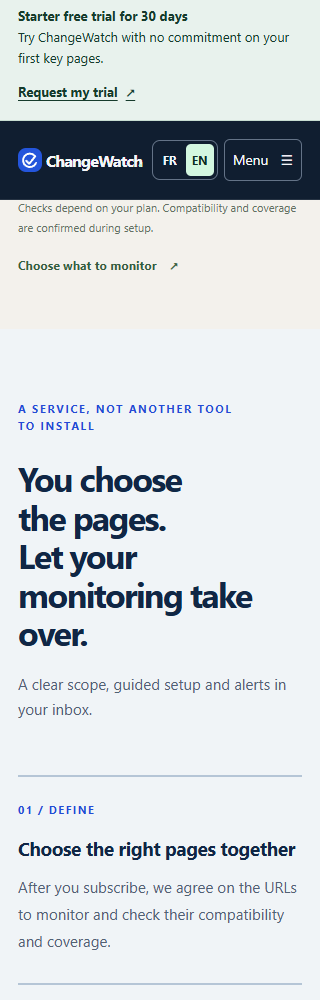
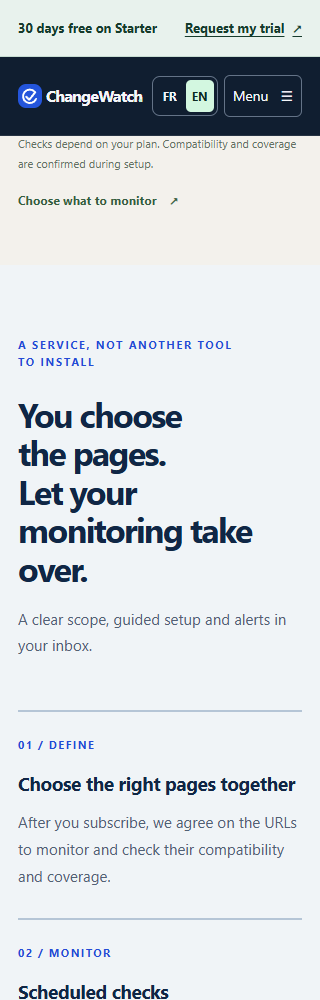
Compact the Starter announcement on mobile only

diff --git a/index.html b/index.html
@@ -33,7 +33,7 @@
 <body class="story-home">
 <a class="skip-link" href="#contenu">Aller au contenu</a>
 <div class="sticky-top">
-<aside class="launch-banner" aria-label="Essai gratuit Starter pendant 30 jours"><div class="container"><p><strong>Essai gratuit Starter pendant 30 jours</strong><span>Testez ChangeWatch sans engagement sur vos premières pages clés.</span></p><a href="#demande" data-starter-trial>Demander mon essai <span aria-hidden="true">↗</span></a></div></aside>
+<aside class="launch-banner" aria-label="Essai gratuit Starter pendant 30 jours"><div class="container"><p><strong><span class="banner-desktop-title">Essai gratuit Starter pendant 30 jours</span><span class="banner-mobile-title">30 jours gratuits sur Starter</span></strong><span>Testez ChangeWatch sans engagement sur vos premières pages clés.</span></p><a href="#demande" data-starter-trial>Demander mon essai <span aria-hidden="true">↗</span></a></div></aside>
 <header class="header">
   <nav class="container nav" aria-label="Navigation principale">
     <a class="brand" href="#" aria-label="ChangeWatch, accueil"><img src="assets/favicon.svg" width="30" height="30" alt="">ChangeWatch<span class="brand-period">.</span></a>

diff --git a/en/index.html b/en/index.html
@@ -33,7 +33,7 @@
 <body class="story-home">
 <a class="skip-link" href="#contenu">Skip to content</a>
 <div class="sticky-top">
-<aside class="launch-banner" aria-label="Starter free trial for 30 days"><div class="container"><p><strong>Starter free trial for 30 days</strong><span>Try ChangeWatch with no commitment on your first key pages.</span></p><a href="#demande" data-starter-trial>Request my trial <span aria-hidden="true">↗</span></a></div></aside>
+<aside class="launch-banner" aria-label="Starter free trial for 30 days"><div class="container"><p><strong><span class="banner-desktop-title">Starter free trial for 30 days</span><span class="banner-mobile-title">30 days free on Starter</span></strong><span>Try ChangeWatch with no commitment on your first key pages.</span></p><a href="#demande" data-starter-trial>Request my trial <span aria-hidden="true">↗</span></a></div></aside>
 <header class="header">
   <nav class="container nav" aria-label="Main navigation">
     <a class="brand" href="#" aria-label="ChangeWatch, home"><img src="/assets/favicon.svg" width="30" height="30" alt="">ChangeWatch<span class="brand-period">.</span></a>

diff --git a/assets/launch-offer.css b/assets/launch-offer.css
@@ -14,3 +14,14 @@
 html:has(.sticky-top){scroll-padding-top:var(--sticky-offset,18rem)}
 .story-home #demande{scroll-margin-top:16px}
 @media(max-width:600px){.launch-banner>.container{flex-wrap:wrap;gap:2px;padding-block:6px}.launch-banner p{flex:1 1 100%}.launch-banner a{font-size:.8125rem}}
+
+/* Real text variants keep the mobile wording available to assistive technology. */
+.launch-banner strong .banner-desktop-title{display:inline;margin:0}
+.launch-banner strong .banner-mobile-title{display:none;margin:0}
+@media(max-width:600px){
+  .launch-banner>.container{flex-wrap:nowrap;align-items:center;gap:12px}
+  .launch-banner p{flex:1 1 auto;min-width:0}
+  .launch-banner p>span,.launch-banner strong .banner-desktop-title{display:none}
+  .launch-banner strong .banner-mobile-title{display:inline}
+  .launch-banner a{max-width:52%}
+}

diff --git a/docs/starter-banner/README.md b/docs/starter-banner/README.md
@@ -34,3 +34,13 @@ Limites : zoom natif et lecteur d’écran matériel non validés ; le contrôle
 | FR | 320 | [haut](screenshots/fr-320-top.png) | [scroll](screenshots/fr-320-scroll.png) |
 | EN | 1440 | [haut](screenshots/en-1440-top.png) | [scroll](screenshots/en-1440-scroll.png) |
 | EN | 320 | [haut](screenshots/en-320-top.png) | [scroll](screenshots/en-320-scroll.png) |
+
+## Ajustement mobile de la PR #17
+
+Breakpoint existant : `max-width:600px`. Le titre court réel est affiché uniquement sur mobile ; le titre long et la phrase secondaire restent inchangés dès 601 px. Deux variantes de texte dans le `strong` du bandeau évitent de fabriquer un titre via du contenu CSS : la variante masquée utilise `display:none`, donc n’est pas lue en double. Aucun autre élément HTML n’a été modifié.
+
+Le titre et le CTA sont côte à côte. Hauteur naturelle mesurée en FR et EN à 320/375/390 : **57 px**, contre **121,39 px** dans le commit validé `13eba2b`. Le CTA conserve une hauteur cliquable de 44 px, son focus visible et son marqueur Starter. Aucune hauteur fixe de bandeau ajoutée.
+
+Le test compare les captures du bloc bandeau + header à la version validée aux largeurs 768/1024/1440 : **identité pixel par pixel** dans Edge headless. La phrase secondaire reste visible à ces largeurs et est masquée à 320/375/390. Les contrôles sticky, ancres, menu, présélection, consentement et événements restent actifs. Tous les scripts, le formulaire et le tracking sont inchangés par cet ajustement.
+
+Les huit captures du tableau ci-dessus ont été régénérées ; les captures desktop sont identiques à la livraison précédente. Les limites de validation manuelle indiquées plus haut restent applicables.
